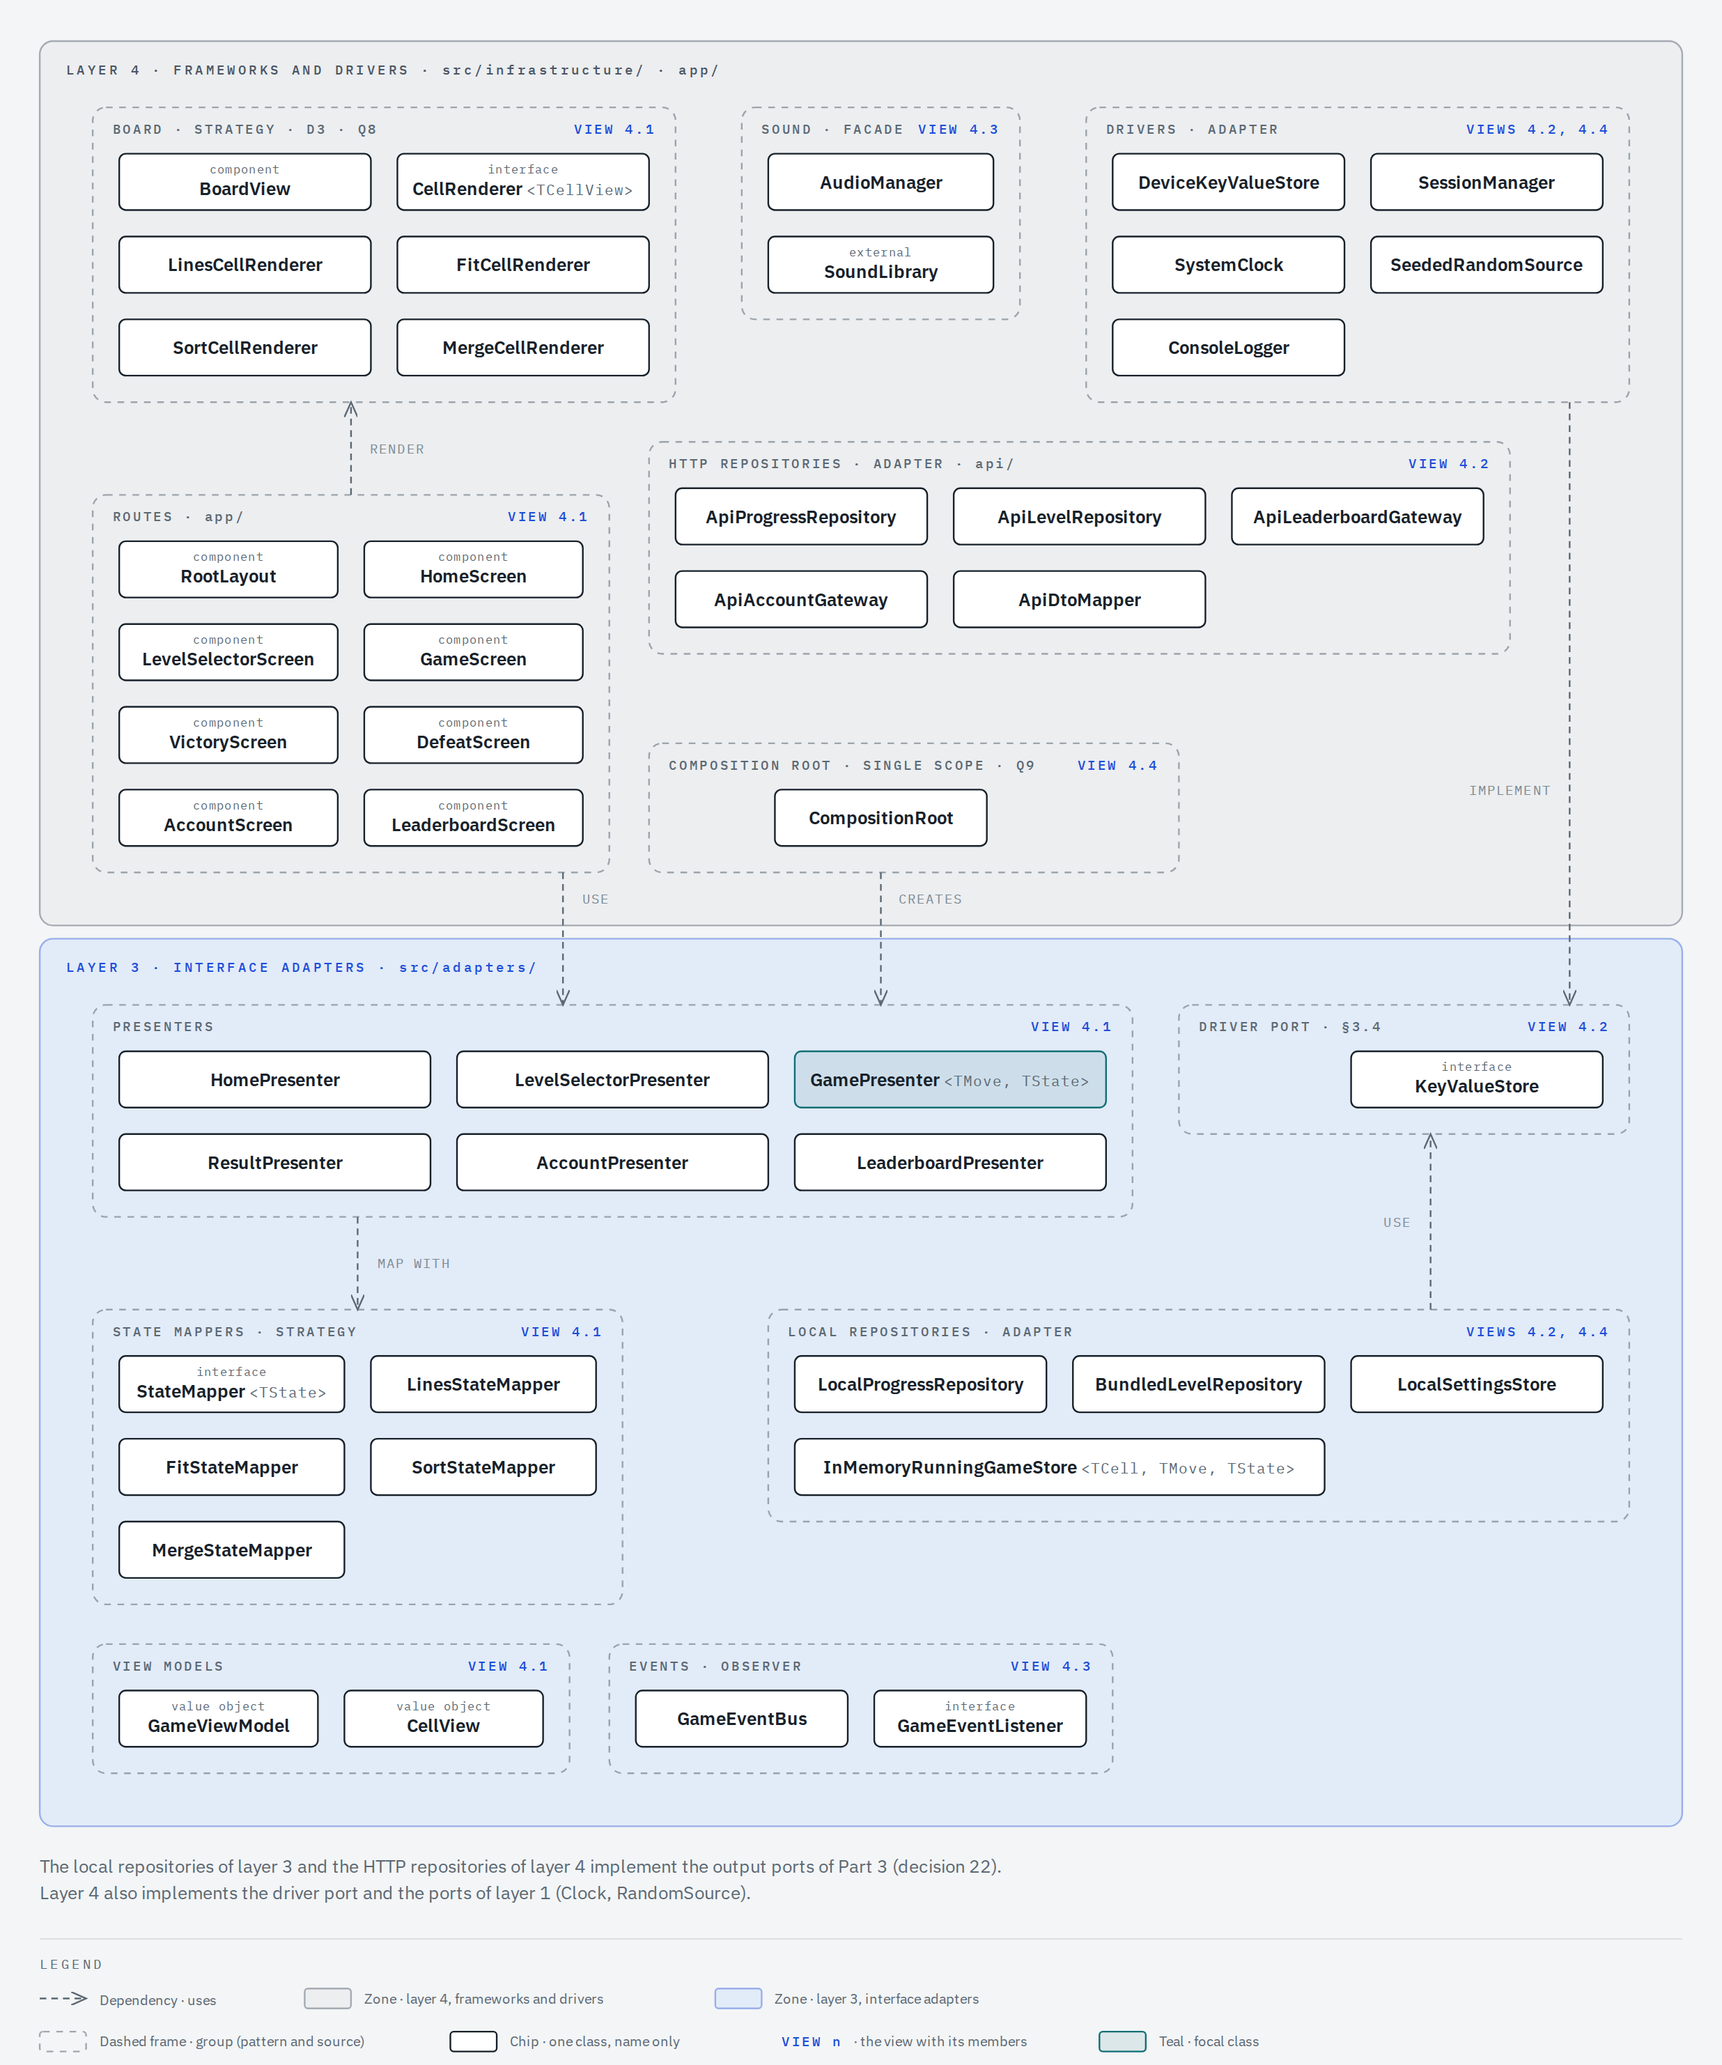
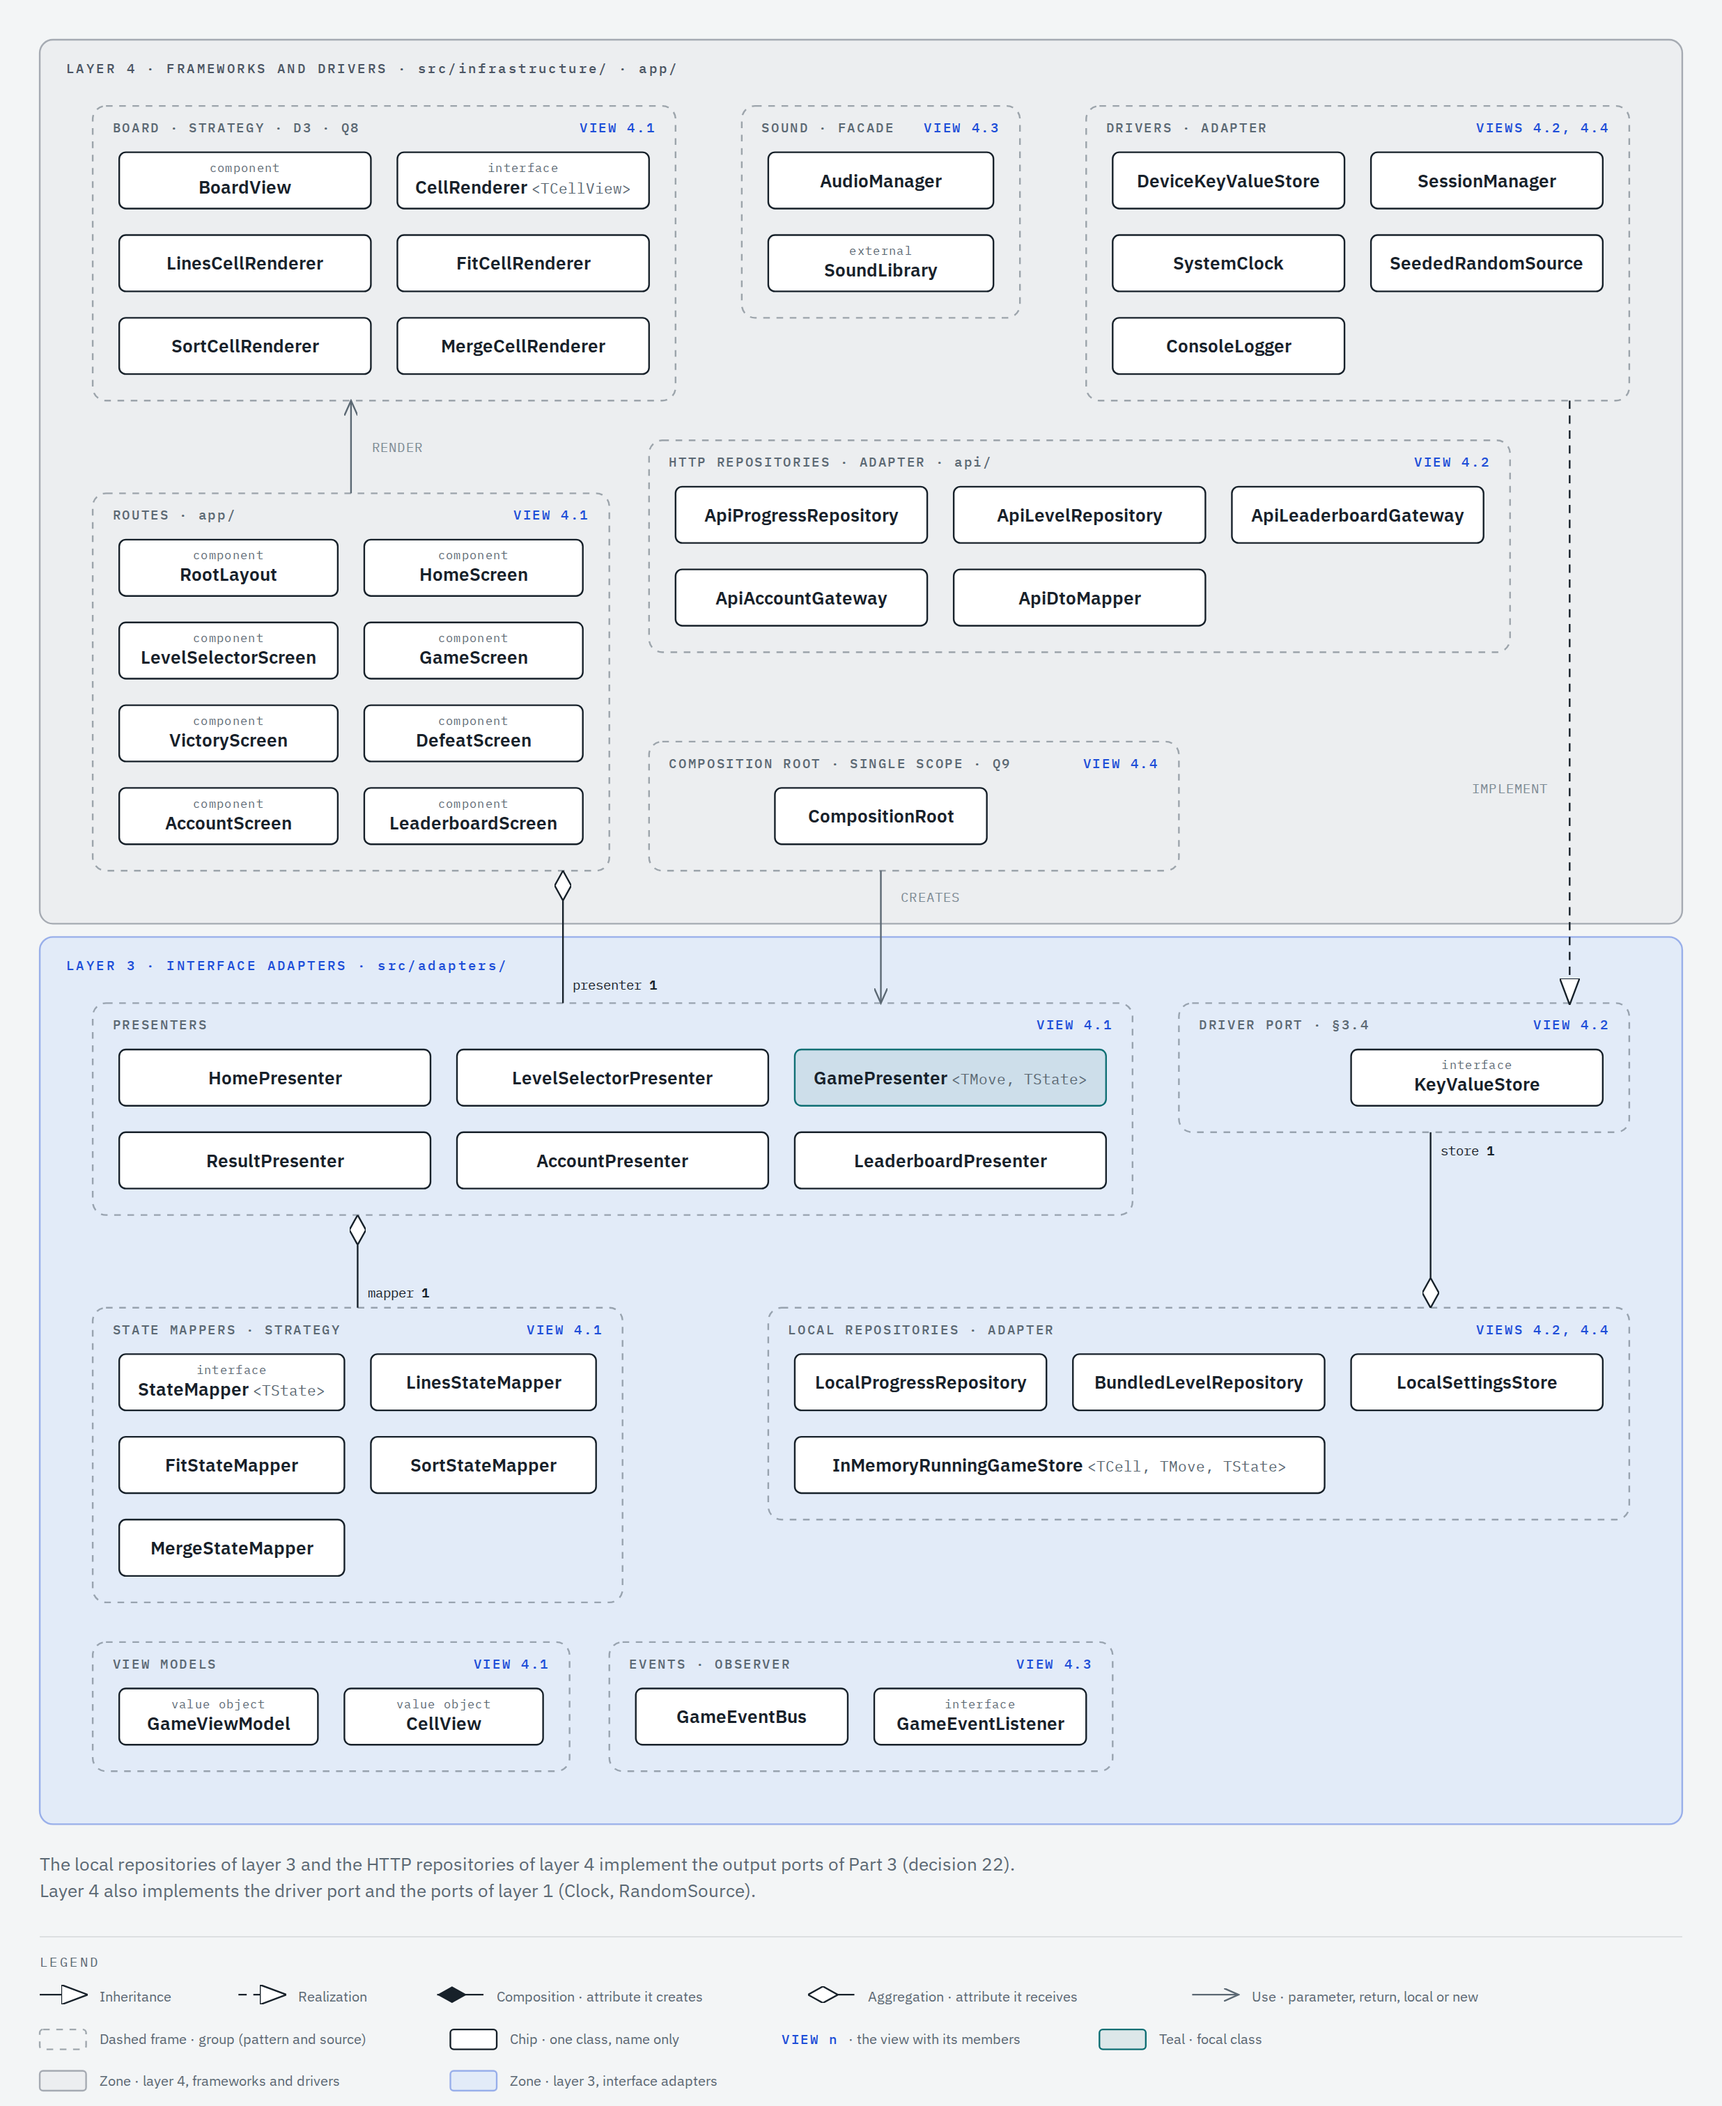
docs(architecture): show realizations and attributes in the adapter map
Drivers realize their ports. Routes, presenters and local repositories keep their
presenter, mapper and store as hollow diamonds.

diff --git a/docs/architecture/classes/views/map-4-adapters.html b/docs/architecture/classes/views/map-4-adapters.html
@@ -64,7 +64,7 @@
       <h1>Adapters, presenters and drivers at a glance</h1>
 
       <svg
-        viewBox="0 0 1040 1246"
+        viewBox="0 0 1040 1271"
         xmlns="http://www.w3.org/2000/svg"
         role="img"
         aria-labelledby="mapad-title mapad-desc"
@@ -88,6 +88,44 @@
             markerUnits="userSpaceOnUse"
           >
             <path d="M0,0 L9,4 L0,8" fill="none" stroke="#5b6873" stroke-width="1" />
+          </marker>
+          <marker
+            id="mapad-triangle"
+            markerWidth="16"
+            markerHeight="12"
+            refX="15"
+            refY="6"
+            orient="auto"
+            markerUnits="userSpaceOnUse"
+          >
+            <polygon points="0 0, 16 6, 0 12" fill="#ffffff" stroke="#17212a" stroke-width="1" />
+          </marker>
+          <marker
+            id="mapad-diamond-filled"
+            markerWidth="18"
+            markerHeight="10"
+            refX="0"
+            refY="5"
+            orient="auto"
+            markerUnits="userSpaceOnUse"
+          >
+            <polygon points="0 5, 9 0, 18 5, 9 10" fill="#17212a" />
+          </marker>
+          <marker
+            id="mapad-diamond-hollow"
+            markerWidth="18"
+            markerHeight="10"
+            refX="0"
+            refY="5"
+            orient="auto"
+            markerUnits="userSpaceOnUse"
+          >
+            <polygon
+              points="0 5, 9 0, 18 5, 9 10"
+              fill="#ffffff"
+              stroke="#17212a"
+              stroke-width="1"
+            />
           </marker>
         </defs>
 
@@ -562,7 +600,7 @@
         </text>
 
         <!-- Dependencies between groups (drawn before chips) -->
-        <!-- Routes render the board: up, inside layer 4 -->
+        <!-- Routes render the board: use, up, inside layer 4 -->
         <line
           x1="212"
           y1="298"
@@ -570,21 +608,19 @@
           y2="242"
           stroke="#5b6873"
           stroke-width="1"
-          stroke-dasharray="4,3"
           marker-end="url(#mapad-open)"
         />
-        <!-- Routes use the presenters: down into layer 3 -->
+        <!-- Routes keep the presenter they receive as a prop: aggregation, down into layer 3 -->
         <line
           x1="340"
           y1="526"
           x2="340"
           y2="606"
-          stroke="#5b6873"
+          stroke="#17212a"
           stroke-width="1"
-          stroke-dasharray="4,3"
-          marker-end="url(#mapad-open)"
+          marker-start="url(#mapad-diamond-hollow)"
         />
-        <!-- Composition root creates the presenters: down into layer 3 -->
+        <!-- Composition root creates the presenters: use, down into layer 3 -->
         <line
           x1="532"
           y1="526"
@@ -592,41 +628,38 @@
           y2="606"
           stroke="#5b6873"
           stroke-width="1"
-          stroke-dasharray="4,3"
           marker-end="url(#mapad-open)"
         />
-        <!-- Drivers implement the driver ports: down into layer 3 -->
+        <!-- Drivers implement the driver ports: realization, down into layer 3 -->
         <line
           x1="948"
           y1="242"
           x2="948"
           y2="606"
-          stroke="#5b6873"
+          stroke="#17212a"
           stroke-width="1"
-          stroke-dasharray="4,3"
-          marker-end="url(#mapad-open)"
+          stroke-dasharray="5,4"
+          marker-end="url(#mapad-triangle)"
         />
-        <!-- Presenters map with the state mappers: down, inside layer 3 -->
+        <!-- Presenters keep the state mapper they receive: aggregation, down, inside layer 3 -->
         <line
           x1="216"
           y1="734"
           x2="216"
           y2="790"
-          stroke="#5b6873"
+          stroke="#17212a"
           stroke-width="1"
-          stroke-dasharray="4,3"
-          marker-end="url(#mapad-open)"
+          marker-start="url(#mapad-diamond-hollow)"
         />
-        <!-- Repositories use the driver ports: up, inside layer 3 -->
+        <!-- Local repositories keep the driver port they receive: aggregation, up, inside layer 3 -->
         <line
           x1="864"
           y1="790"
           x2="864"
           y2="684"
-          stroke="#5b6873"
+          stroke="#17212a"
           stroke-width="1"
-          stroke-dasharray="4,3"
-          marker-end="url(#mapad-open)"
+          marker-start="url(#mapad-diamond-hollow)"
         />
 
         <!-- Arrow labels (masks use the fill of their zone) -->
@@ -641,18 +674,6 @@
           letter-spacing="0.06em"
         >
           RENDER
-        </text>
-        <rect x="348" y="536" width="24" height="12" rx="2" fill="#eceef0" />
-        <text
-          x="360"
-          y="545"
-          fill="#7d8a94"
-          font-size="8"
-          font-family="'IBM Plex Mono', monospace"
-          text-anchor="middle"
-          letter-spacing="0.06em"
-        >
-          USE
         </text>
         <rect x="540" y="536" width="44" height="12" rx="2" fill="#eceef0" />
         <text
@@ -678,29 +699,43 @@
         >
           IMPLEMENT
         </text>
-        <rect x="224" y="756" width="52" height="12" rx="2" fill="#e2ebf8" />
+
+        <!-- Role names and multiplicities at the part end -->
+        <rect x="344" y="589" width="57" height="12" rx="2" fill="#e2ebf8" />
         <text
-          x="250"
-          y="765"
-          fill="#7d8a94"
+          x="346"
+          y="598"
+          fill="#17212a"
           font-size="8"
           font-family="'IBM Plex Mono', monospace"
-          text-anchor="middle"
-          letter-spacing="0.06em"
+          text-anchor="start"
         >
-          MAP WITH
+          presenter
+          <tspan font-weight="600">1</tspan>
         </text>
-        <rect x="832" y="731" width="24" height="12" rx="2" fill="#e2ebf8" />
+        <rect x="220" y="775" width="43" height="12" rx="2" fill="#e2ebf8" />
         <text
-          x="844"
-          y="740"
-          fill="#7d8a94"
+          x="222"
+          y="784"
+          fill="#17212a"
           font-size="8"
           font-family="'IBM Plex Mono', monospace"
-          text-anchor="middle"
-          letter-spacing="0.06em"
+          text-anchor="start"
         >
-          USE
+          mapper
+          <tspan font-weight="600">1</tspan>
+        </text>
+        <rect x="868" y="689" width="38" height="12" rx="2" fill="#e2ebf8" />
+        <text
+          x="870"
+          y="698"
+          fill="#17212a"
+          font-size="8"
+          font-family="'IBM Plex Mono', monospace"
+          text-anchor="start"
+        >
+          store
+          <tspan font-weight="600">1</tspan>
         </text>
 
         <!-- Chips: board -->
@@ -1766,60 +1801,94 @@
 
         <line
           x1="24"
-          y1="1206"
+          y1="1205"
           x2="52"
-          y2="1206"
-          stroke="#5b6873"
+          y2="1205"
+          stroke="#17212a"
           stroke-width="1"
-          stroke-dasharray="4,3"
-          marker-end="url(#mapad-open)"
+          marker-end="url(#mapad-triangle)"
         />
         <text
           x="60"
-          y="1210"
-          fill="#5b6873"
-          font-size="8.5"
-          font-family="'IBM Plex Sans', sans-serif"
-        >
-          Dependency · uses
-        </text>
-        <rect
-          x="184"
-          y="1200"
-          width="28"
-          height="12"
-          rx="2"
-          fill="#eceef0"
-          stroke="rgba(75,85,99,0.45)"
-          stroke-width="1"
-        />
-        <text
-          x="220"
           y="1209"
           fill="#5b6873"
           font-size="8.5"
           font-family="'IBM Plex Sans', sans-serif"
         >
-          Zone · layer 4, frameworks and drivers
+          Inheritance
         </text>
-        <rect
-          x="432"
-          y="1200"
-          width="28"
-          height="12"
-          rx="2"
-          fill="#e2ebf8"
-          stroke="rgba(29,78,216,0.40)"
+        <line
+          x1="144"
+          y1="1205"
+          x2="172"
+          y2="1205"
+          stroke="#17212a"
           stroke-width="1"
+          stroke-dasharray="5,4"
+          marker-end="url(#mapad-triangle)"
         />
         <text
-          x="468"
+          x="180"
           y="1209"
           fill="#5b6873"
           font-size="8.5"
           font-family="'IBM Plex Sans', sans-serif"
         >
-          Zone · layer 3, interface adapters
+          Realization
+        </text>
+        <line
+          x1="264"
+          y1="1205"
+          x2="292"
+          y2="1205"
+          stroke="#17212a"
+          stroke-width="1"
+          marker-start="url(#mapad-diamond-filled)"
+        />
+        <text
+          x="300"
+          y="1209"
+          fill="#5b6873"
+          font-size="8.5"
+          font-family="'IBM Plex Sans', sans-serif"
+        >
+          Composition · attribute it creates
+        </text>
+        <line
+          x1="488"
+          y1="1205"
+          x2="516"
+          y2="1205"
+          stroke="#17212a"
+          stroke-width="1"
+          marker-start="url(#mapad-diamond-hollow)"
+        />
+        <text
+          x="524"
+          y="1209"
+          fill="#5b6873"
+          font-size="8.5"
+          font-family="'IBM Plex Sans', sans-serif"
+        >
+          Aggregation · attribute it receives
+        </text>
+        <line
+          x1="720"
+          y1="1205"
+          x2="748"
+          y2="1205"
+          stroke="#5b6873"
+          stroke-width="1"
+          marker-end="url(#mapad-open)"
+        />
+        <text
+          x="756"
+          y="1209"
+          fill="#5b6873"
+          font-size="8.5"
+          font-family="'IBM Plex Sans', sans-serif"
+        >
+          Use · parameter, return, local or new
         </text>
 
         <rect
@@ -1897,6 +1966,45 @@
           font-family="'IBM Plex Sans', sans-serif"
         >
           Teal · focal class
+        </text>
+
+        <rect
+          x="24"
+          y="1251"
+          width="28"
+          height="12"
+          rx="2"
+          fill="#eceef0"
+          stroke="rgba(75,85,99,0.45)"
+          stroke-width="1"
+        />
+        <text
+          x="60"
+          y="1260"
+          fill="#5b6873"
+          font-size="8.5"
+          font-family="'IBM Plex Sans', sans-serif"
+        >
+          Zone · layer 4, frameworks and drivers
+        </text>
+        <rect
+          x="272"
+          y="1251"
+          width="28"
+          height="12"
+          rx="2"
+          fill="#e2ebf8"
+          stroke="rgba(29,78,216,0.40)"
+          stroke-width="1"
+        />
+        <text
+          x="308"
+          y="1260"
+          fill="#5b6873"
+          font-size="8.5"
+          font-family="'IBM Plex Sans', sans-serif"
+        >
+          Zone · layer 3, interface adapters
         </text>
       </svg>
     </div>
